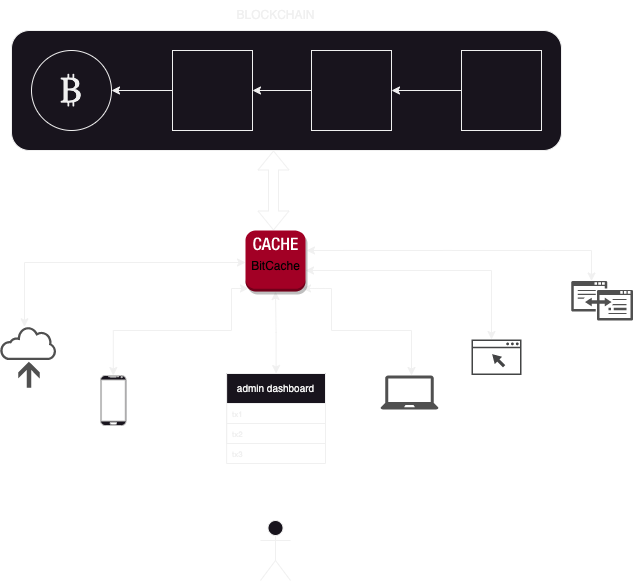
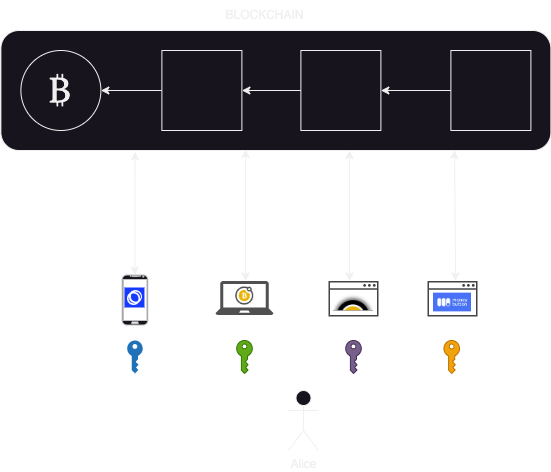
GITBOOK-11: change request with no subject merged in GitBook

diff --git a/bitcache/interoperability.md b/bitcache/interoperability.md
@@ -1,0 +1,19 @@
+# Interoperability
+
+Consider this standard Bitcoiner setup that Alice has: coins on a RelayX wallet, an ElectrumSV wallet, a 1SatOrdinals wallet, and a MoneyButton wallet.
+
+<figure><img src="../.gitbook/assets/bitcache-sys arch.drawio (2).png" alt=""><figcaption></figcaption></figure>
+
+
+
+If MoneyButton were to someday disappear, Alice should still be able to recover her wallet data since she has access to her seed master key.&#x20;
+
+What she needs to do to recover her wallet is to take her seed and import it into a new wallet or service that will go through the **expensive** and **unreliable** process of iterating through an infinite amount of child keys and scanning the entire set of blockchain transactions to see if there is any transaction output that includes any of those child public keys.
+
+<figure><img src="../.gitbook/assets/bitcache-sys arch.drawio (3).png" alt=""><figcaption></figcaption></figure>
+
+Now if her wallets (or at least just the MoneyButton one) were connected to her BitCache, then this would be a non-event. Alice can, with the click of a button in seconds, move her MoneyButton seed into the Panda wallet browser extension (which will get the transaction data linked to her seed fingerprint from her BitCache) and continue using her wallet from another interface.
+
+<figure><img src="../.gitbook/assets/bitcache-sys arch.drawio (4).png" alt=""><figcaption></figcaption></figure>
+
+Even if her MoneyButton wallet was not connected to her BitCache, she could still use Panda wallet or more likely an external service to crawl the blockchain to find her transactions, populate her BitCache with them, and then use them in a new interface like Panda wallet.

diff --git a/bitcache/system-architecture.md b/bitcache/system-architecture.md
@@ -13,7 +13,7 @@ With your onchain data, you have two options:
 2. **cache** transactions you need as they get settled onchain \
    _(CHEAP - only scales with your data usage)_
 
-<figure><img src="../.gitbook/assets/bitcache-sys arch.drawio (1).png" alt=""><figcaption></figcaption></figure>
+<figure><img src="../.gitbook/assets/bitcache-sys arch.drawio (6).png" alt=""><figcaption></figcaption></figure>
 
 As shown in the diagram above, all of the interfaces you use to create new Bitcoin transactions - whether they are different wallet interfaces, different devices, or different Bitcoin applications - notify your BitCache of those transactions so that they are saved/cached to be used whenever and wherever you want, seamlessly.
 

diff --git a/SUMMARY.md b/SUMMARY.md
@@ -5,6 +5,7 @@
   * [Background](bitcache/background.md)
   * [Data Curation Vs. Data Ownership](bitcache/data-curation-vs.-data-ownership.md)
   * [System Architecture](bitcache/system-architecture.md)
+  * [Interoperability](bitcache/interoperability.md)
 * [Quick Start](quick-start.md)
 
 ## Reference
